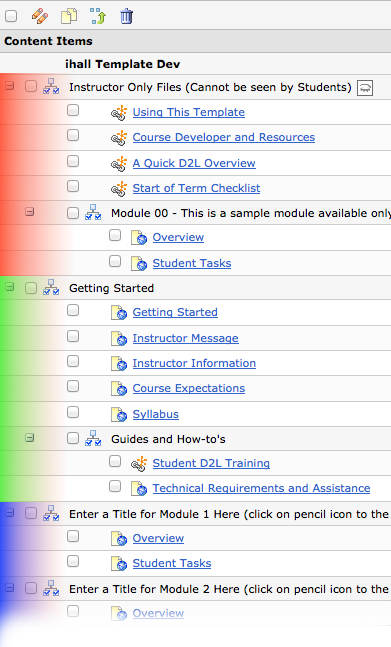
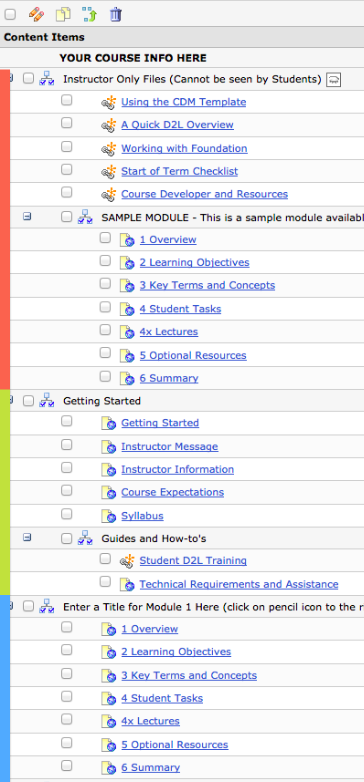
Updated Index

diff --git a/1 Using the CDM Template.html b/1 Using the CDM Template.html
@@ -15,10 +15,10 @@
 				</h1>
 				<hr>
 				<h3 class="subheader">
-					I've created a template for CDM to help you get started building in D2L really quickly, without a lot of headache.
+					I've created a template for CDM to help you get started building in D2L really quickly and without a lot of headache, however <em>you are not required to use this template.</em> 
 				</h3>
 				<h4 class="subheader">
-					This template is constructed using <a href="http://foundation.zurb.com/" target="_blank">Foundation 4</a>, a responsive CSS/JS framework and should make it easier to get started in D2L, however <em>you are not required to use this template.</em>
+					This template is constructed using <a href="http://foundation.zurb.com/" target="_blank">Foundation 4</a>, a responsive CSS/JS framework which makes it easy to create responsive course materials.
 				</h4>
 				<hr>
 				<h2 class="subheader">
@@ -51,7 +51,7 @@
 							</li>
 						</ul>
 						<p>
-							<strong>Module 00</strong> is an example module where you can experiment and also includes notes describing the type of content intended for each section.
+							<strong>Sample Module</strong> is an example module where you can experiment and also includes notes describing the type of content intended for each section.
 						</p>
 						<hr>
 						<h3 class="subheader">
@@ -72,7 +72,7 @@
 						<div class="panel">
 							<h4 class="subheader">
 								View of the Manage Content area
-							</h4><img src="_img/manage-files-area-2.png" alt="Manage Files Area Screenshot"> <em>Figure 1</em>
+							</h4><img src="_img/manage-files-area.png" alt="Manage Files Area Screenshot"> <em>Figure 1</em>
 						</div>
 					</div>
 				</div>

diff --git a/index.html b/index.html
@@ -21,9 +21,13 @@
 					<div class="large-6 push-6 columns">
 						<h3 class="subheader">The CDM Desire2Learn Template is intended to help you start working in D2L as quickly and with as little headache as possible.</h3>
 						<h3 class="subheader">Simply download the zip file below, access your course in D2L, upload the zip file, and start using the template.</h3>
+						<ul><li><em>Full Template</em> contains Instructor Only Files, a Getting Started module, and ten empty modules ready to be developed.</li><li><em>Instructor Only Files</em> contains Instructor Only Files, and the Getting Started module.</li></ul>
 						<div class="text-center">
-							<a href="cdm-template.zip" class="button round large">Get Template</a>
-							&nbsp;&nbsp;&nbsp;<a href="https://github.com/inhll/cdm-training" class="button tiny secondary" target="_blank">Clone Now</a>
+							<ul class="button-group round even-2">
+								<li><a href="cdm-template.zip" class="button large">Get Full Template</a></li>
+								<li><a href="cdm-template-instructor-only-files.zip" class="button large" target="_blank">Get Instructor Only Files</a></li>
+							</ul>
+							<a href="https://github.com/inhll/cdm-training" class="button tiny secondary" target="_blank">Clone Now</a>
 						</div>
 
 					</div>
